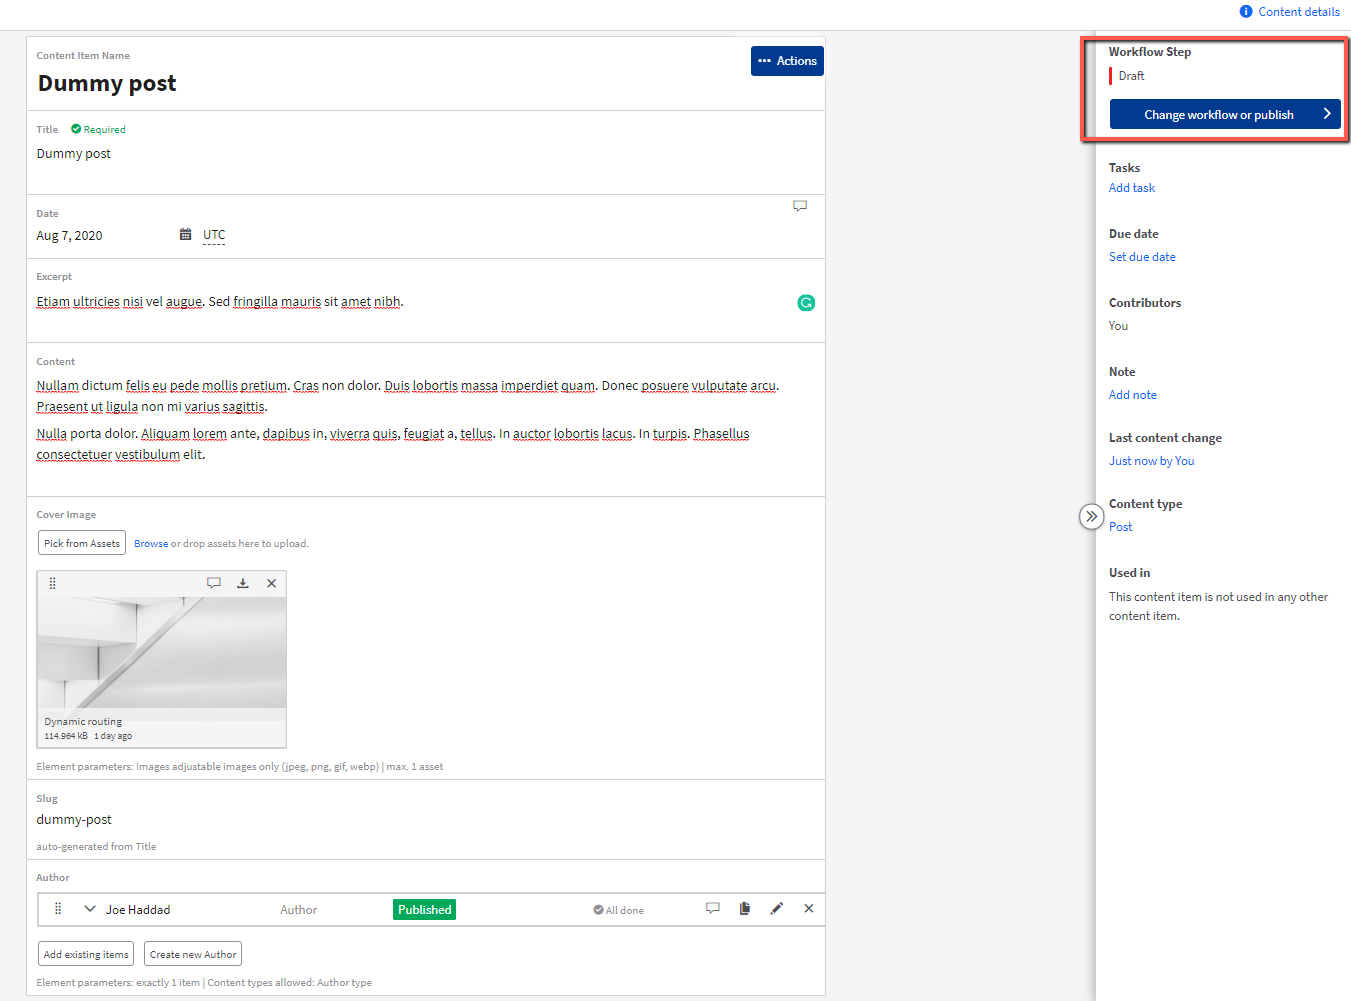
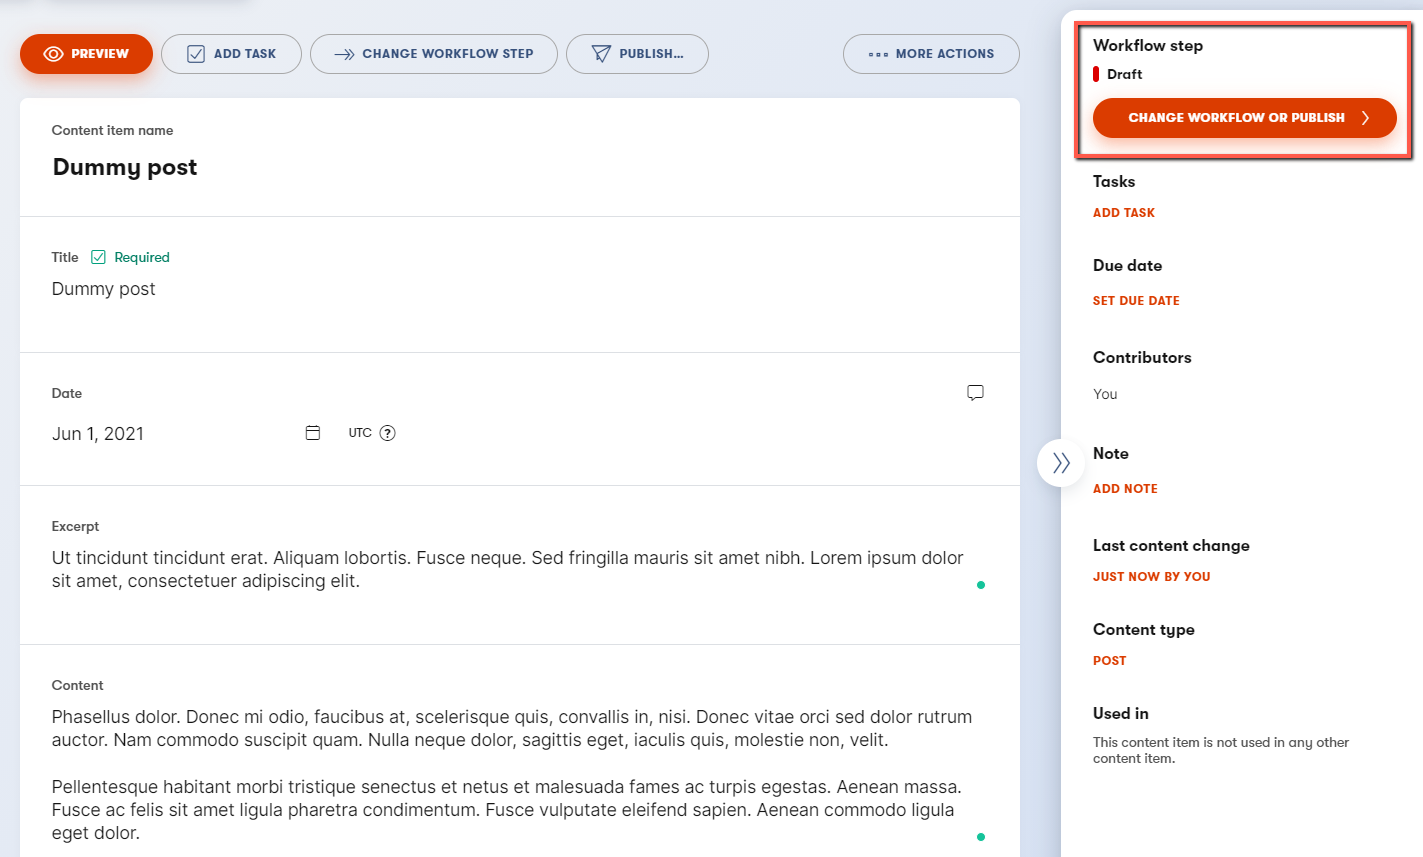
New kontent UI screenshots (#25387)
## Documentation / Examples

Kontent CMS went through the UI redesign - <http://new-ui.kontent.ai/>.
* I am updating the example screenshots.
* \+ one fix of the URL in README.

- example was submitted by me in #16034

- [x] Make sure the linting passes

diff --git a/examples/cms-kontent/README.md b/examples/cms-kontent/README.md
@@ -68,7 +68,7 @@ To import the content models with their data follow the next steps:
    kbm --action=restore --apiKey=<Management API key> --projectId=<Project ID> --zipFilename=kontent-backup
    ```
 
-   > **💡 Alternatively, you can use the [Template Manager UI](https://kentico.github.io/kontent-template-manager/import-from-file) for importing the content.**
+   > **💡 Alternatively, you can use the [Template Manager UI](https://kentico.github.io/kontent-template-manager/import) for importing the content.**
 
 1. Go to your Kontent project and publish all the imported items.
    > You could deactivate Management API key, it is not necessary any more.
